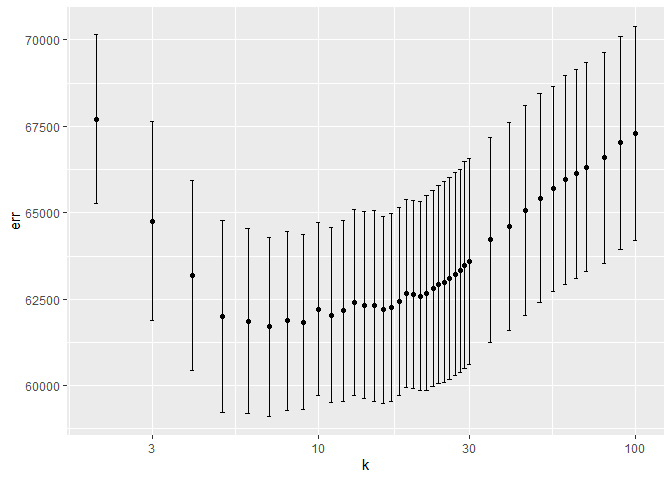
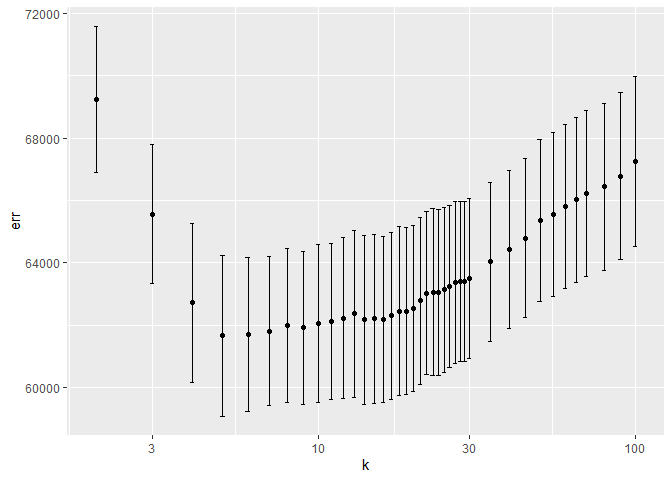
typos

diff --git a/Output/saratoga_horserace.md b/Output/saratoga_horserace.md
@@ -25,16 +25,16 @@ Consider first the baseline model. This model uses 11 main effects from
 the data set in a linear regression. It includes the variables lot size,
 age, living area, bedrooms, fireplaces, bathrooms, rooms, heating
 method, fuel method, and central air. This model performed consistently
-the worst. In this iteration, for example, it acheived an average
-out-of-sample mean-squared error of `avg_rmse_baseline`.
+the worst. In this iteration, for example, it achieved an average
+out-of-sample mean-squared error of 6.6291713^{4}.
 
 This is to be expected. Economic intuition indicates that we are likely
-ommitting important considerations for house prices, notably land value,
+omitting important considerations for house prices, notably land value,
 waterfront access and whether or not it is a new construction. We add
 these to our linear model to improve it, as well as an interaction term
 for lot size and waterfront access. Indeed, we see significant
 improvement in the RMSE. In this iteration, we see a mean-squared error
-of `avg_rmse_better`.
+of 5.8349018^{4}.
 
 Finally, we attempt to create a KNN model. To begin, we include all
 possible covariates and attempt to identify the value of K neighbors
@@ -42,4 +42,4 @@ that gives us the lowest mean-squared error. The following graph shows
 the error on the vertical access and the value of k on the horizontal.
 
 ![](saratoga_horserace_files/figure-markdown_strict/unnamed-chunk-3-1.png)
-The minimum RMSE can be found at k=`min_k` with a RMSE of `min_rmse`.
+The minimum RMSE can be found at k=5 with a RMSE of 6.1665657^{4}.
